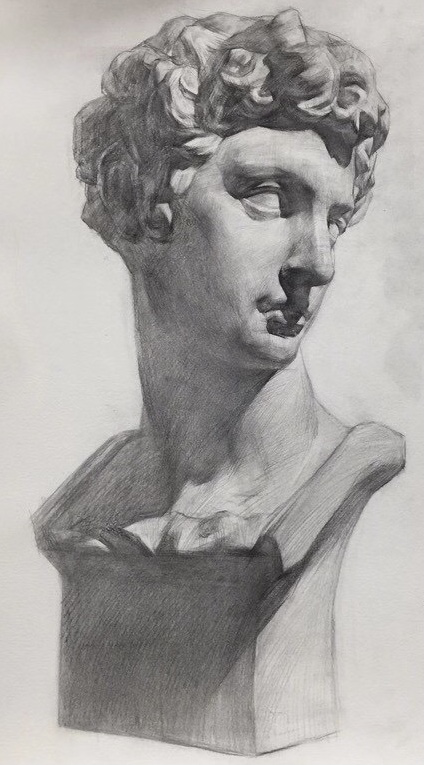
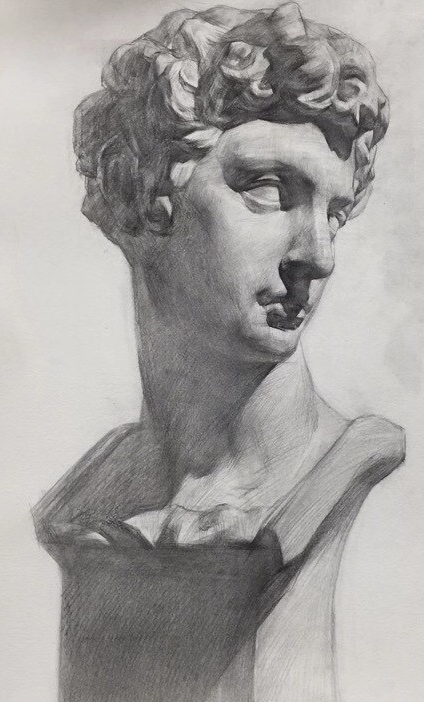
change layout

diff --git a/_bazinga/hobbies/sketch.md b/_bazinga/hobbies/sketch.md
@@ -1,40 +1,8 @@
 ---
 show: true
-width: 6
+width: 8
 date: 2097-01-12 00:01:00 +0800
 ---
-
-<style>
-  .sketch-reference {
-    width: 100%;
-    height: auto;
-    border-radius: 0.5rem;
-  }
-
-  .sketch-cropped {
-    width: 100%;
-    height: 100%;
-    max-height: 100%;
-    object-fit: cover;
-    object-position: top; /* 只裁底部 */
-    border-radius: 0.5rem;
-  }
-
-  .equal-height-container {
-    display: flex;
-    gap: 8px;
-  }
-
-  .equal-height-container > div {
-    flex: 1;
-    display: flex;
-    flex-direction: column;
-  }
-
-  .equal-height-container img {
-    display: block;
-  }
-</style>
 
 <div class="p-4">
   <h3>Sketch</h3>
@@ -43,23 +11,27 @@ date: 2097-01-12 00:01:00 +0800
     Surprise! I have a hidden talent for sketching. I have been learning to draw since primary school. Check out some of my sketches below:
   </p>
 
-  <div class="equal-height-container">
-    <div>
+  <div class="row">
+    <div class="col-md-6 mb-3">
       <img 
-        id="ref-img"
-        src="{{ 'assets/images/bazinga/hobbies/Agrippa.png' | relative_url }}" 
-        class="lazy sketch-reference" 
+        data-src="{{ 'assets/images/bazinga/hobbies/Agrippa.png' | relative_url }}" 
+        class="lazy w-100 rounded" 
+        src="{{ '/assets/images/empty_300x200.png' | relative_url }}" 
+        data-toggle="tooltip" 
+        data-placement="top" 
         title="Agrippa, 2018 July">
     </div>
 
-    <div>
+    <div class="col-md-6 mb-3">
       <img 
-        src="{{ 'assets/images/bazinga/hobbies/Medici.png' | relative_url }}" 
-        class="lazy sketch-cropped" 
-        style="height: auto;" 
-        title="Medici, 2018 June"
-        onload="this.style.height = document.getElementById('ref-img').clientHeight + 'px';">
+        data-src="{{ 'assets/images/bazinga/hobbies/Medici.png' | relative_url }}" 
+        class="lazy w-100 rounded" 
+        src="{{ '/assets/images/empty_300x200.png' | relative_url }}" 
+        data-toggle="tooltip" 
+        data-placement="top" 
+        title="Medici, 2018 June">
     </div>
   </div>
 </div>
+
 
